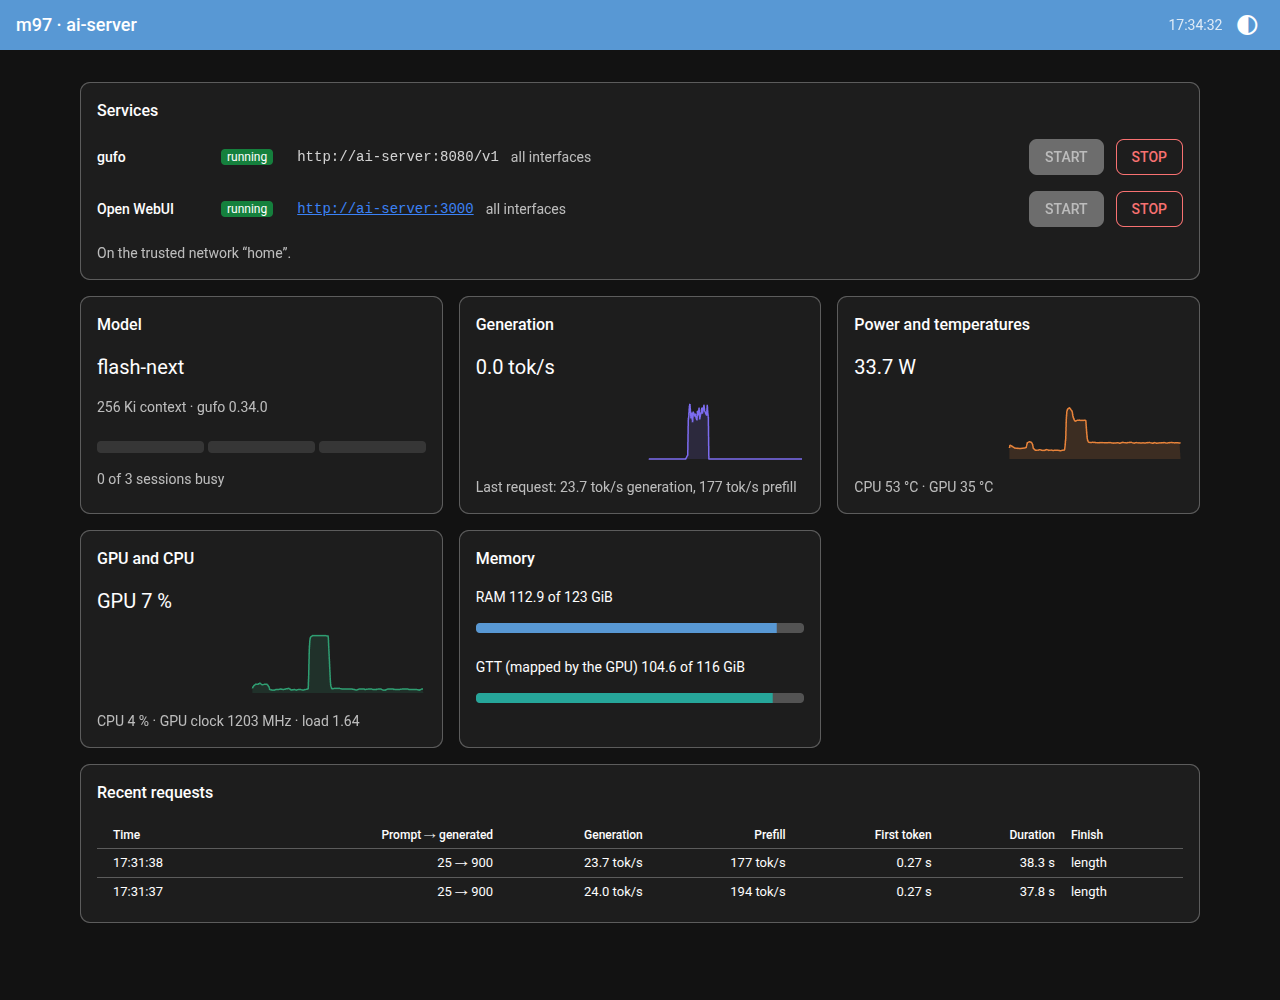
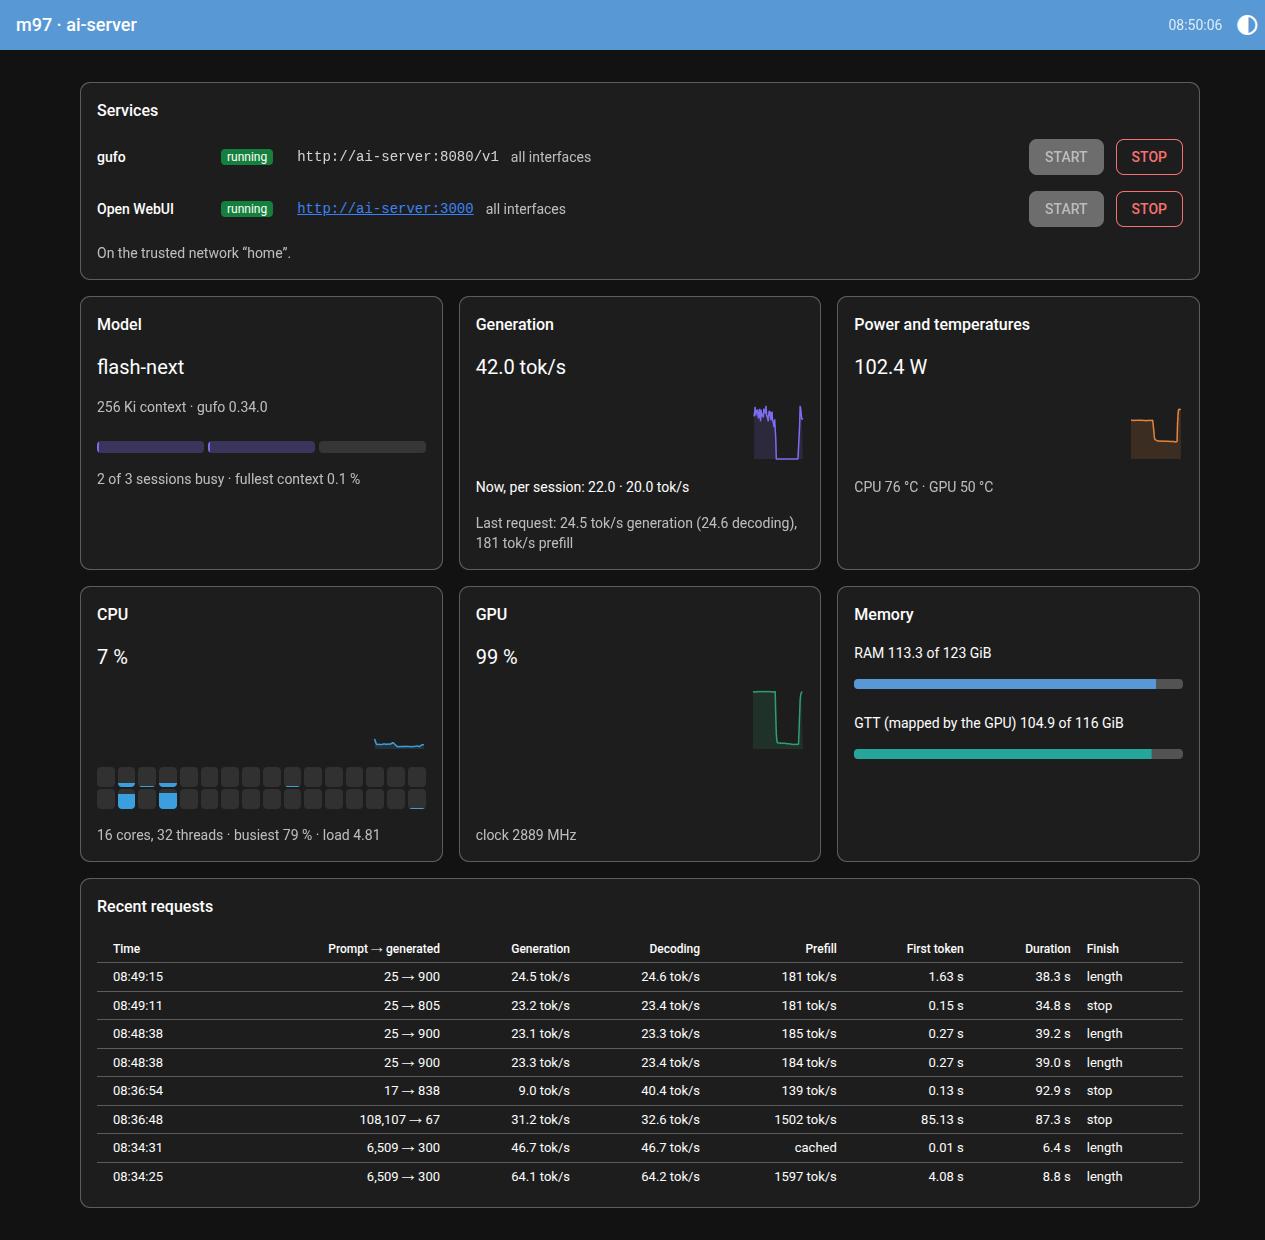
Context fill below 10 % with one decimal; a fresh README screenshot
"fullest context 0 %" read like a bug for a session that is busy. The
screenshot shows today's layout: CPU, GPU and Memory, the two speed
columns, and the context-filled session bars.

Claude-Session: https://claude.ai/code/session_01PYNVWdbhgc6D2GRbtM1ibj

diff --git a/m97/app.py b/m97/app.py
@@ -263,7 +263,8 @@ def build(hub):
             sessions_label.text = " · ".join(part for part in (
                 f"{len(busy_slots)} of {len(hub.slots)} sessions busy" if hub.slots else "",
                 f"{deferred:.0f} waiting" if deferred else "",
-                f"fullest context {100 * max(fills):.0f} %" if fills else "") if part)
+                # One decimal below 10 %, where whole percents would read "0 %" for a session that is busy.
+                f"fullest context {100 * max(fills):.{1 if max(fills) < 0.1 else 0}f} %" if fills else "") if part)
 
             speed_label.text = _fmt(hub.gen_tps, ".1f", " tok/s") if hub.ready["gufo"] else "–"
             live = [slot["tps"] for slot in hub.slots if slot["busy"] and slot["tps"] is not None]
